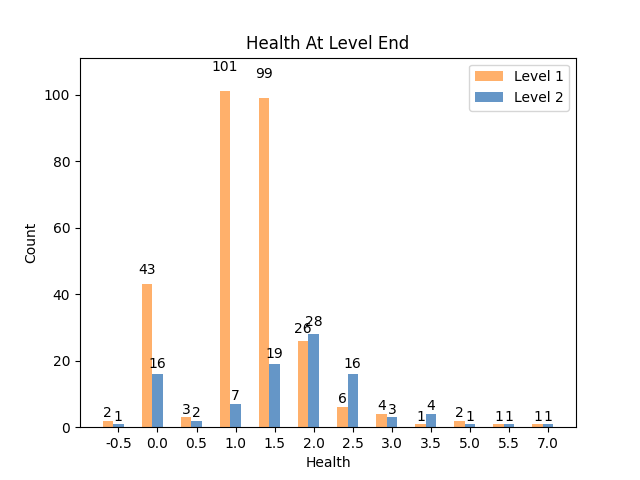
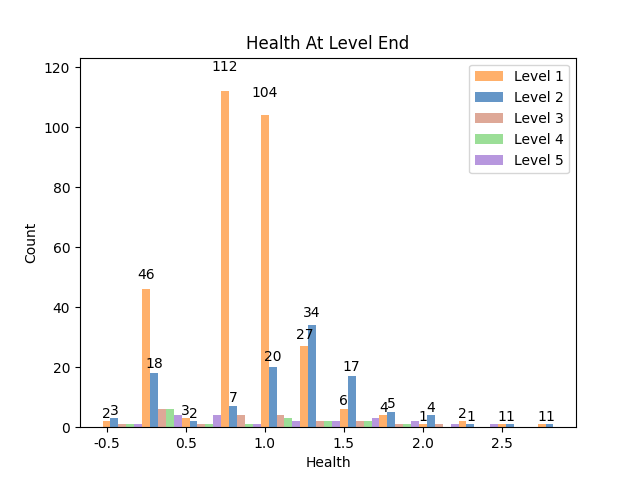
update health plot

diff --git a/analytics/firebase_analytics.py b/analytics/firebase_analytics.py
@@ -423,10 +423,11 @@ for x,y in zip(game_level_labels,health_level_labels):
 
 
 plt.legend(loc='best')
-plt.savefig('firebase_plots/health_avg_bar_plot.png')
+plt.savefig('firebase_plots/health_avg_bar_plot.png', dpi=1200)
 plt.close()
 
 ### Plot 2: Side by Side Distribution of Player Health
+
 
 df['health_count'] = 1
 health_counts = df.groupby(['level', 'health'])['health_count'].sum().reset_index()
@@ -436,7 +437,13 @@ level_1_health = health_counts[health_counts['level'] == '1']
 level_1_health_y = list(level_1_health['health_count'])
 level_2_health = health_counts[health_counts['level'] == '2']
 level_2_health_y = list(level_2_health['health_count'])
-health_lables = list(level_2_health['health'])
+level_3_health = health_counts[health_counts['level'] == '3']
+level_3_health_y = list(level_3_health['health_count'])
+level_4_health = health_counts[health_counts['level'] == '4']
+level_4_health_y = list(level_4_health['health_count'])
+level_5_health = health_counts[health_counts['level'] == '5']
+level_5_health_y = list(level_5_health['health_count'])
+health_lables = list(set(health_counts['health']))
 health_lables = (str(x) for x in health_lables)
 print('health_lables')
 print(x for x in health_lables)
@@ -451,16 +458,25 @@ print(level_2_health_y)
 
 N = len(level_1_health)
 ind = np.arange(N)  
-width = 0.27 
+width = 0.2
 rects1 = ax.bar(ind, level_1_health_y, width, color='#FFB06B')
 N = len(level_2_health)
 ind = np.arange(N)  
 rects2 = ax.bar(ind+width, level_2_health_y, width, color='#6596C7')
+N = len(level_3_health)
+ind = np.arange(N)  
+rects3 = ax.bar(ind+width*2, level_3_health_y, width, color='#DEA897')
+N = len(level_4_health)
+ind = np.arange(N)  
+rects4 = ax.bar(ind+width*3, level_4_health_y, width, color='#9BDE97')
+N = len(level_5_health)
+ind = np.arange(N)  
+rects5 = ax.bar(ind+width*4, level_5_health_y, width, color='#B797DE')
 
 ax.set_ylabel('Scores')
-ax.set_xticks(ind+width)
+#ax.set_xticks(ind+width)
 ax.set_xticklabels(health_lables)
-ax.legend( (rects1[0], rects2[0]), ('Level 1', 'Level 2') )
+ax.legend( (rects1[0], rects2[0], rects3[0], rects4[0], rects5[0]), ('Level 1', 'Level 2', 'Level 3', 'Level 4', 'Level 5') )
 
 def autolabel(rects):
     for rect in rects:
@@ -475,8 +491,7 @@ plt.ylim(0, max_health + max_health*.10)
 plt.xlabel('Health')
 plt.ylabel('Count')
 plt.title('Health At Level End')
-
-plt.savefig('firebase_plots/health_bar_plot.png')
+plt.savefig('firebase_plots/health_bar_plot.png', dpi=1200)
 plt.close()
 
 """
